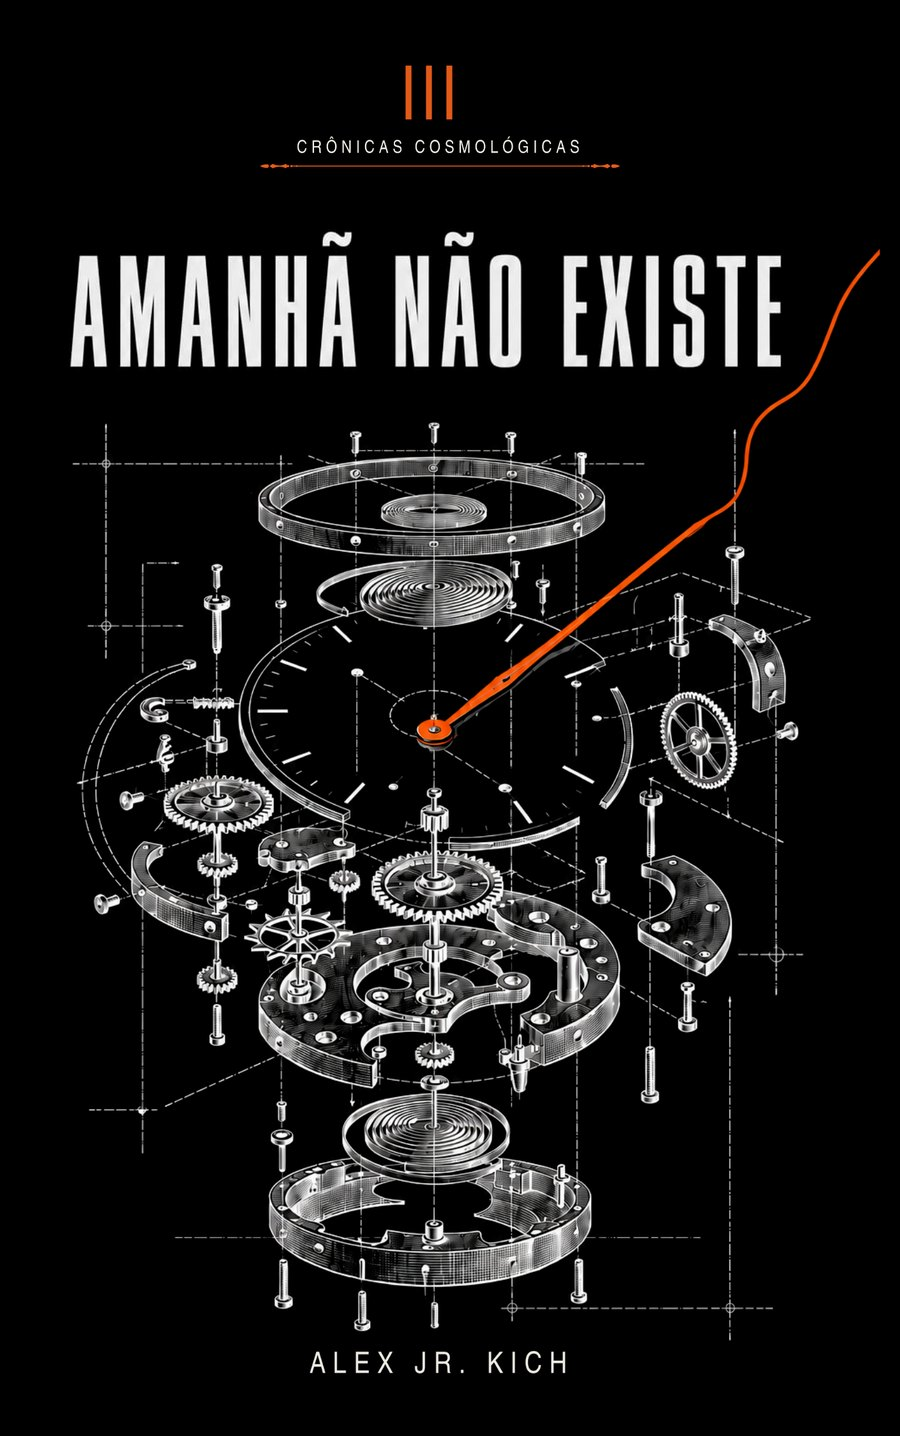
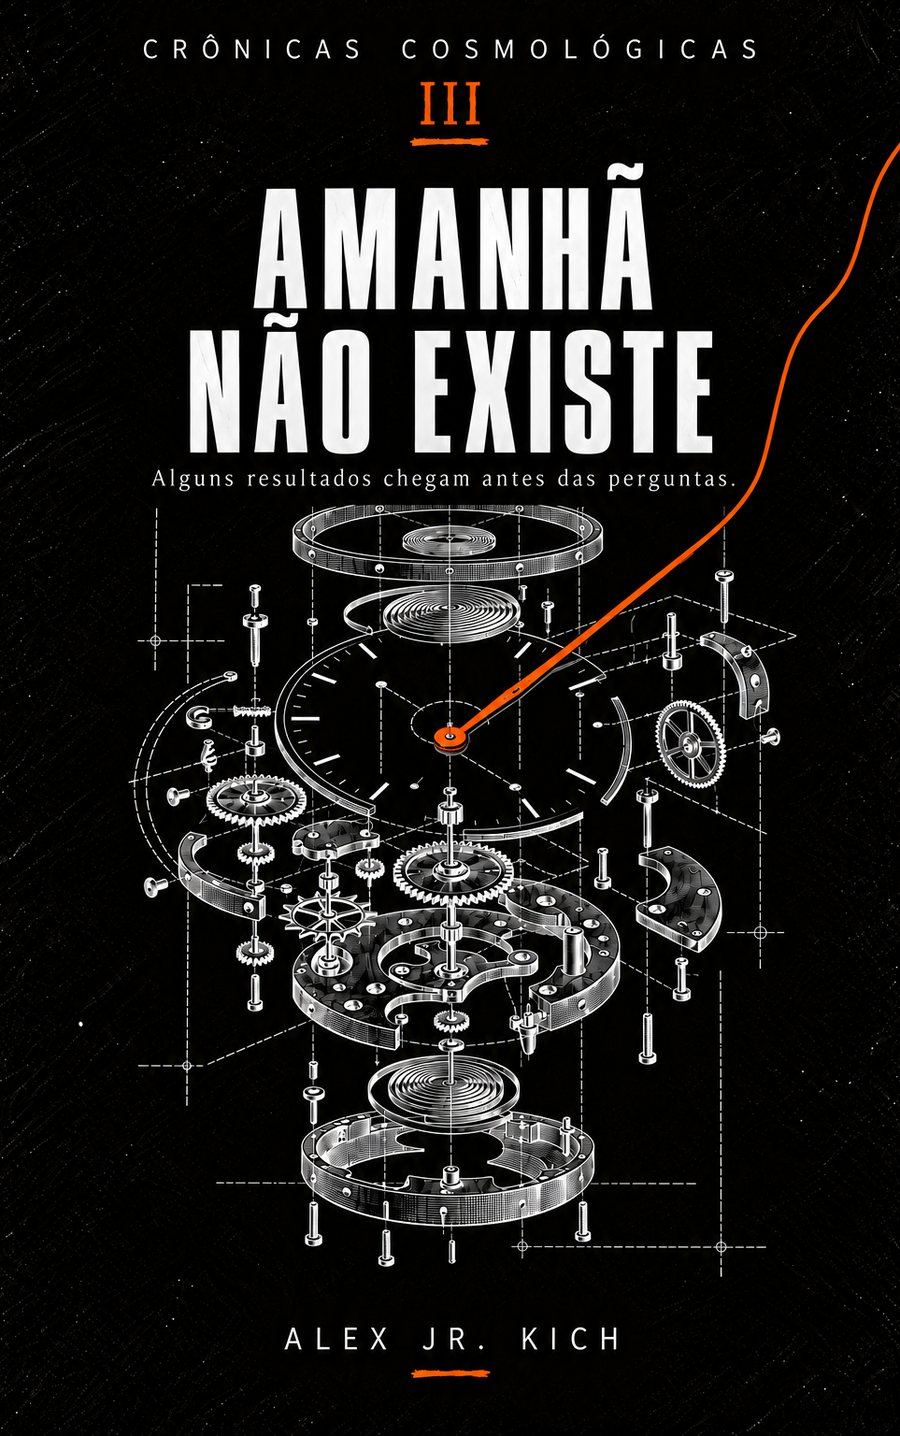
Autor: topo so texto, capas nos cartoes das Cronicas; capas novas III e IV (PT e EN)

diff --git a/en/chronicles/index.html b/en/chronicles/index.html
@@ -75,7 +75,7 @@
 
         <section class="books-future" id="chronicles">
           <span class="kicker">Cosmological Chronicles · I–X</span>
-          <div class="books-grid books-grid--covers" style="margin-top:16px"><a class="book-card book-card--cover" href="/en/chronicles/os-deuses-nao-tem-filhos/"><img src="/livros/os-deuses-nao-tem-filhos-en.jpg" alt="Cover of THE GODS HAVE NO CHILDREN" loading="lazy" /><span class="mono">I · In development</span><h3>THE GODS HAVE NO CHILDREN</h3><p>Creating a life gives no one the right to own it.</p><span class="book-card__more mono">Synopsis and details →</span></a><a class="book-card book-card--cover" href="/en/chronicles/a-ultima-testemunha/"><img src="/livros/a-ultima-testemunha-en.jpg" alt="Cover of THE LAST WITNESS" loading="lazy" /><span class="mono">II · In development</span><h3>THE LAST WITNESS</h3><p>Some things only happen when someone is watching.</p><span class="book-card__more mono">Synopsis and details →</span></a><a class="book-card book-card--cover" href="/en/chronicles/amanha-nao-existe/"><img src="/livros/amanha-nao-existe.jpg" alt="Cover of TOMORROW DOES NOT EXIST" loading="lazy" /><span class="mono">III · In development</span><h3>TOMORROW DOES NOT EXIST</h3><p>Receiving the answer before the question does not make the choice any easier.</p><span class="book-card__more mono">Synopsis and details →</span></a><a class="book-card book-card--cover" href="/en/chronicles/o-universo-nao-responde/"><img src="/livros/o-universo-nao-responde.jpg" alt="Cover of THE UNIVERSE DOES NOT ANSWER" loading="lazy" /><span class="mono">IV · In development</span><h3>THE UNIVERSE DOES NOT ANSWER</h3><p>Perhaps silence is only an answer we have not yet learned to hear.</p><span class="book-card__more mono">Synopsis and details →</span></a><a class="book-card book-card--cover" href="/en/chronicles/o-arquivo-dos-mortos/"><img src="/livros/o-arquivo-dos-mortos.jpg" alt="Cover of THE ARCHIVE OF THE DEAD" loading="lazy" /><span class="mono">V · In development</span><h3>THE ARCHIVE OF THE DEAD</h3><p>Keeping everything about someone does not bring them back.</p><span class="book-card__more mono">Synopsis and details →</span></a><a class="book-card book-card--cover" href="/en/chronicles/antes-de-nascermos/"><img src="/livros/antes-de-nascermos-en.jpg" alt="Cover of BEFORE WE ARE BORN" loading="lazy" /><span class="mono">VI · In development</span><h3>BEFORE WE ARE BORN</h3><p>Some children remember a place where they have never been.</p><span class="book-card__more mono">Synopsis and details →</span></a><a class="book-card book-card--cover" href="/en/chronicles/o-ceu-esta-errado/"><img src="/livros/o-ceu-esta-errado.jpg" alt="Cover of THE SKY IS WRONG" loading="lazy" /><span class="mono">VII · In development</span><h3>THE SKY IS WRONG</h3><p>First the stars disappear. Then the people. The worst part is when no one notices they are missing.</p><span class="book-card__more mono">Synopsis and details →</span></a><a class="book-card book-card--cover" href="/en/chronicles/o-retangulo-negro/"><img src="/livros/o-retangulo-negro.jpg" alt="Cover of THE BLACK RECTANGLE" loading="lazy" /><span class="mono">VIII · In development</span><h3>THE BLACK RECTANGLE</h3><p>Not everything that vanishes was lost.</p><span class="book-card__more mono">Synopsis and details →</span></a><a class="book-card book-card--cover" href="/en/chronicles/nao-tem-a-palavra/"><img src="/livros/nao-tem-a-palavra.jpg" alt="Cover of THERE IS NO WORD" loading="lazy" /><span class="mono">IX · In development</span><h3>THERE IS NO WORD</h3><p>Some things disappear when they stop having a name.</p><span class="book-card__more mono">Synopsis and details →</span></a><a class="book-card book-card--cover" href="/en/chronicles/o-ultimo-sinal/"><img src="/livros/o-ultimo-sinal.jpg" alt="Cover of THE LAST SIGNAL" loading="lazy" /><span class="mono">X · In development</span><h3>THE LAST SIGNAL</h3><p>If one of us arrives first, wait for the other.</p><span class="book-card__more mono">Synopsis and details →</span></a></div>
+          <div class="books-grid books-grid--covers" style="margin-top:16px"><a class="book-card book-card--cover" href="/en/chronicles/os-deuses-nao-tem-filhos/"><img src="/livros/os-deuses-nao-tem-filhos-en.jpg" alt="Cover of THE GODS HAVE NO CHILDREN" loading="lazy" /><span class="mono">I · In development</span><h3>THE GODS HAVE NO CHILDREN</h3><p>Creating a life gives no one the right to own it.</p><span class="book-card__more mono">Synopsis and details →</span></a><a class="book-card book-card--cover" href="/en/chronicles/a-ultima-testemunha/"><img src="/livros/a-ultima-testemunha-en.jpg" alt="Cover of THE LAST WITNESS" loading="lazy" /><span class="mono">II · In development</span><h3>THE LAST WITNESS</h3><p>Some things only happen when someone is watching.</p><span class="book-card__more mono">Synopsis and details →</span></a><a class="book-card book-card--cover" href="/en/chronicles/amanha-nao-existe/"><img src="/livros/amanha-nao-existe-en.jpg" alt="Cover of TOMORROW DOES NOT EXIST" loading="lazy" /><span class="mono">III · In development</span><h3>TOMORROW DOES NOT EXIST</h3><p>Receiving the answer before the question does not make the choice any easier.</p><span class="book-card__more mono">Synopsis and details →</span></a><a class="book-card book-card--cover" href="/en/chronicles/o-universo-nao-responde/"><img src="/livros/o-universo-nao-responde-en.jpg" alt="Cover of THE UNIVERSE DOES NOT ANSWER" loading="lazy" /><span class="mono">IV · In development</span><h3>THE UNIVERSE DOES NOT ANSWER</h3><p>Perhaps silence is only an answer we have not yet learned to hear.</p><span class="book-card__more mono">Synopsis and details →</span></a><a class="book-card book-card--cover" href="/en/chronicles/o-arquivo-dos-mortos/"><img src="/livros/o-arquivo-dos-mortos.jpg" alt="Cover of THE ARCHIVE OF THE DEAD" loading="lazy" /><span class="mono">V · In development</span><h3>THE ARCHIVE OF THE DEAD</h3><p>Keeping everything about someone does not bring them back.</p><span class="book-card__more mono">Synopsis and details →</span></a><a class="book-card book-card--cover" href="/en/chronicles/antes-de-nascermos/"><img src="/livros/antes-de-nascermos-en.jpg" alt="Cover of BEFORE WE ARE BORN" loading="lazy" /><span class="mono">VI · In development</span><h3>BEFORE WE ARE BORN</h3><p>Some children remember a place where they have never been.</p><span class="book-card__more mono">Synopsis and details →</span></a><a class="book-card book-card--cover" href="/en/chronicles/o-ceu-esta-errado/"><img src="/livros/o-ceu-esta-errado.jpg" alt="Cover of THE SKY IS WRONG" loading="lazy" /><span class="mono">VII · In development</span><h3>THE SKY IS WRONG</h3><p>First the stars disappear. Then the people. The worst part is when no one notices they are missing.</p><span class="book-card__more mono">Synopsis and details →</span></a><a class="book-card book-card--cover" href="/en/chronicles/o-retangulo-negro/"><img src="/livros/o-retangulo-negro.jpg" alt="Cover of THE BLACK RECTANGLE" loading="lazy" /><span class="mono">VIII · In development</span><h3>THE BLACK RECTANGLE</h3><p>Not everything that vanishes was lost.</p><span class="book-card__more mono">Synopsis and details →</span></a><a class="book-card book-card--cover" href="/en/chronicles/nao-tem-a-palavra/"><img src="/livros/nao-tem-a-palavra.jpg" alt="Cover of THERE IS NO WORD" loading="lazy" /><span class="mono">IX · In development</span><h3>THERE IS NO WORD</h3><p>Some things disappear when they stop having a name.</p><span class="book-card__more mono">Synopsis and details →</span></a><a class="book-card book-card--cover" href="/en/chronicles/o-ultimo-sinal/"><img src="/livros/o-ultimo-sinal.jpg" alt="Cover of THE LAST SIGNAL" loading="lazy" /><span class="mono">X · In development</span><h3>THE LAST SIGNAL</h3><p>If one of us arrives first, wait for the other.</p><span class="book-card__more mono">Synopsis and details →</span></a></div>
         </section>
       </div>
     </section></main>

diff --git a/autor/index.html b/autor/index.html
@@ -15,11 +15,11 @@
   <meta property="og:url" content="https://sinalruido.com.br/autor/" />
   <meta property="og:site_name" content="SINAL/RUÍDO" />
   <meta property="og:locale" content="pt_BR" />
-  <meta property="og:image" content="https://sinalruido.com.br/autor/hero-bandeira.jpg" />
+  <meta property="og:image" content="https://sinalruido.com.br/autor/sentado.jpg" />
   <meta property="og:image:width" content="1200" />
   <meta property="og:image:height" content="630" />
   <meta name="twitter:card" content="summary_large_image" />
-  <meta name="twitter:image" content="https://sinalruido.com.br/autor/hero-bandeira.jpg" />
+  <meta name="twitter:image" content="https://sinalruido.com.br/autor/sentado.jpg" />
   <link rel="preconnect" href="https://fonts.googleapis.com" />
   <link rel="preconnect" href="https://fonts.gstatic.com" crossorigin />
   <link rel="stylesheet" href="https://fonts.googleapis.com/css2?family=Oswald:wght@600;700&display=swap" />
@@ -72,7 +72,6 @@
         <p class="autor-cite">O conceito pode ser enorme, mas o conflito precisa continuar humano.</p>
         <p><a class="btn btn--primary" href="/#livros">Conhecer os livros</a></p>
       </div>
-      <div class="autor-hero__photo"><img src="/autor/hero-bandeira.jpg" alt="Alex Jr. Kich sentado, sorrindo, com a bandeira do Rio Grande do Sul ao fundo" width="900" height="900" /></div>
     </section>
 
     <section class="autor-sec autor-sobre">
@@ -160,51 +159,61 @@
         </div>
         <div class="autor-cron-grid">
         <a class="autor-cron" href="/livros/os-deuses-nao-tem-filhos/">
+          <img src="/livros/thumbs/os-deuses-nao-tem-filhos.jpg" alt="Capa de OS DEUSES NÃO TÊM FILHOS" width="360" height="575" loading="lazy" />
           <span class="autor-cron__num">I</span>
           <strong>OS DEUSES NÃO TÊM FILHOS</strong>
           <span>Se alguém criou você, isso lhe dá o direito de decidir quem você deve ser?</span>
         </a>
         <a class="autor-cron" href="/livros/a-ultima-testemunha/">
+          <img src="/livros/thumbs/a-ultima-testemunha.jpg" alt="Capa de A ÚLTIMA TESTEMUNHA" width="360" height="575" loading="lazy" />
           <span class="autor-cron__num">II</span>
           <strong>A ÚLTIMA TESTEMUNHA</strong>
           <span>Algumas coisas só acontecem se alguém estiver olhando.</span>
         </a>
         <a class="autor-cron" href="/livros/amanha-nao-existe/">
+          <img src="/livros/thumbs/amanha-nao-existe.jpg" alt="Capa de AMANHÃ NÃO EXISTE" width="360" height="575" loading="lazy" />
           <span class="autor-cron__num">III</span>
           <strong>AMANHÃ NÃO EXISTE</strong>
           <span>O que sobra do livre-arbítrio quando uma máquina entrega as respostas antes das perguntas?</span>
         </a>
         <a class="autor-cron" href="/livros/o-universo-nao-responde/">
+          <img src="/livros/thumbs/o-universo-nao-responde.jpg" alt="Capa de O UNIVERSO NÃO RESPONDE" width="360" height="575" loading="lazy" />
           <span class="autor-cron__num">IV</span>
           <strong>O UNIVERSO NÃO RESPONDE</strong>
           <span>Um sinal vindo de além de Netuno traz uma única frase: “Não respondam à luz.”</span>
         </a>
         <a class="autor-cron" href="/livros/o-arquivo-dos-mortos/">
+          <img src="/livros/thumbs/o-arquivo-dos-mortos.jpg" alt="Capa de O ARQUIVO DOS MORTOS" width="360" height="575" loading="lazy" />
           <span class="autor-cron__num">V</span>
           <strong>O ARQUIVO DOS MORTOS</strong>
           <span>Se tudo sobre uma pessoa puder ser guardado, ela continua existindo?</span>
         </a>
         <a class="autor-cron" href="/livros/antes-de-nascermos/">
+          <img src="/livros/thumbs/antes-de-nascermos.jpg" alt="Capa de ANTES DE NASCERMOS" width="360" height="575" loading="lazy" />
           <span class="autor-cron__num">VI</span>
           <strong>ANTES DE NASCERMOS</strong>
           <span>Crianças desenham o mesmo lugar e dizem que estiveram lá antes de nascer.</span>
         </a>
         <a class="autor-cron" href="/livros/o-ceu-esta-errado/">
+          <img src="/livros/thumbs/o-ceu-esta-errado.jpg" alt="Capa de O CÉU ESTÁ ERRADO" width="360" height="575" loading="lazy" />
           <span class="autor-cron__num">VII</span>
           <strong>O CÉU ESTÁ ERRADO</strong>
           <span>As estrelas começam a desaparecer. Depois, os próprios registros passam a afirmar que elas nunca estiveram ali.</span>
         </a>
         <a class="autor-cron" href="/livros/o-retangulo-negro/">
+          <img src="/livros/thumbs/o-retangulo-negro.jpg" alt="Capa de O RETÂNGULO NEGRO" width="360" height="575" loading="lazy" />
           <span class="autor-cron__num">VIII</span>
           <strong>O RETÂNGULO NEGRO</strong>
           <span>Ilse Moura continua lembrando dos filhos enquanto o resto do mundo esquece que eles existiram.</span>
         </a>
         <a class="autor-cron" href="/livros/nao-tem-a-palavra/">
+          <img src="/livros/thumbs/nao-tem-a-palavra.jpg" alt="Capa de NÃO TEM A PALAVRA" width="360" height="575" loading="lazy" />
           <span class="autor-cron__num">IX</span>
           <strong>NÃO TEM A PALAVRA</strong>
           <span>A última falante de uma língua conhece uma palavra que abre uma porta para outro lugar por 1,7 segundo.</span>
         </a>
         <a class="autor-cron" href="/livros/o-ultimo-sinal/">
+          <img src="/livros/thumbs/o-ultimo-sinal.jpg" alt="Capa de O ÚLTIMO SINAL" width="360" height="575" loading="lazy" />
           <span class="autor-cron__num">X</span>
           <strong>O ÚLTIMO SINAL</strong>
           <span>Tudo converge para uma frase que atravessou as histórias desde o começo, quase escondida.</span>

diff --git a/src/css/components.css b/src/css/components.css
@@ -941,7 +941,7 @@ body:has(dialog.book-dialog[open]) { overflow: hidden; }
 .autor-cite { font-size: clamp(20px, 2.6vw, 28px); line-height: 1.3 !important; color: var(--text) !important; font-family: Georgia, "Times New Roman", serif; font-style: italic; margin-top: 22px !important; }
 .autor-cite--accent { color: var(--signal) !important; }
 .autor-note { font-size: 14px; color: var(--muted); }
-.autor-hero { display: grid; grid-template-columns: 60% 40%; min-height: min(72svh, 640px); background: var(--bg); }
+.autor-hero { display: grid; grid-template-columns: 1fr; min-height: min(62svh, 560px); background: var(--bg); }
 .autor-hero__text { padding: clamp(32px, 6vw, 88px); align-self: center; }
 .autor-hero__text h1 { font-family: var(--display); font-size: clamp(44px, 7vw, 92px); line-height: .98; }
 .autor-hero__lead { font-size: clamp(18px, 2vw, 24px); color: var(--signal); margin-top: 12px !important; }
@@ -968,7 +968,8 @@ body:has(dialog.book-dialog[open]) { overflow: hidden; }
 @media (min-width: 1100px) { .autor-cron-grid { grid-template-columns: repeat(5, 1fr); } }
 .autor-cron { display: grid; gap: 8px; align-content: start; padding: 18px; border: 1px solid rgba(255,255,255,.14); border-radius: 12px; background: rgba(255,255,255,.03); color: inherit; }
 .autor-cron:hover { border-color: #d4a84b; }
-.autor-cron__num { font-family: var(--display); font-size: 44px; line-height: 1; color: #d4a84b; }
+.autor-cron img { width: 100%; height: auto; display: block; border-radius: 6px; }
+.autor-cron__num { font-family: var(--display); font-size: 26px; line-height: 1; color: #d4a84b; margin-top: 4px; }
 .autor-cron strong { font-size: 15px; line-height: 1.2; }
 .autor-cron > span:last-child { font-size: 13px; line-height: 1.5; color: var(--muted); }
 .autor-vol-grid { display: grid; gap: 16px; margin-top: 28px; }
@@ -1018,3 +1019,4 @@ body:has(dialog.book-dialog[open]) { overflow: hidden; }
 .autor-fotos .autor-retrato img { max-width: 220px; }
 .autor-start__kicker { color: var(--signal); }
 .autor-start h3 { font-family: var(--display); font-size: 24px; line-height: 1.1; }
+.autor-hero__text { max-width: 900px; }

diff --git a/en/chronicles/o-universo-nao-responde/index.html b/en/chronicles/o-universo-nao-responde/index.html
@@ -22,11 +22,11 @@ At first, the situation offers everything a scientific search could want: direct
   <meta property="og:url" content="https://sinalruido.com.br/en/chronicles/o-universo-nao-responde/" />
   <meta property="og:site_name" content="SINAL/RUÍDO" />
   <meta property="og:locale" content="en_US" />
-  <meta property="og:image" content="https://sinalruido.com.br/livros/o-universo-nao-responde.jpg" />
+  <meta property="og:image" content="https://sinalruido.com.br/livros/o-universo-nao-responde-en.jpg" />
   <meta property="og:image:width" content="1200" />
   <meta property="og:image:height" content="630" />
   <meta name="twitter:card" content="summary_large_image" />
-  <meta name="twitter:image" content="https://sinalruido.com.br/livros/o-universo-nao-responde.jpg" />
+  <meta name="twitter:image" content="https://sinalruido.com.br/livros/o-universo-nao-responde-en.jpg" />
   <link rel="preconnect" href="https://fonts.googleapis.com" />
   <link rel="preconnect" href="https://fonts.gstatic.com" crossorigin />
   <link rel="stylesheet" href="https://fonts.googleapis.com/css2?family=Oswald:wght@600;700&display=swap" />
@@ -66,7 +66,7 @@ At first, the situation offers everything a scientific search could want: direct
           <a href="/livros/o-universo-nao-responde/" class="mono" style="color:var(--muted)" hreflang="pt-BR">← Versão em português</a>
         </div>
         <div class="book-sheet__hero">
-          <img class="book-sheet__cover" src="/livros/o-universo-nao-responde.jpg" alt="Cover of THE UNIVERSE DOES NOT ANSWER" width="450" height="720" />
+          <img class="book-sheet__cover" src="/livros/o-universo-nao-responde-en.jpg" alt="Cover of THE UNIVERSE DOES NOT ANSWER" width="450" height="720" />
           <div>
             <span class="badge" style="border-color:var(--signal);color:var(--signal)">IV · In development</span>
             <h1 style="margin-top:12px">THE UNIVERSE DOES NOT ANSWER</h1>

diff --git a/en/chronicles/amanha-nao-existe/index.html b/en/chronicles/amanha-nao-existe/index.html
@@ -22,11 +22,11 @@ They are not predictions in the ordinary sense. The data arrives before the ques
   <meta property="og:url" content="https://sinalruido.com.br/en/chronicles/amanha-nao-existe/" />
   <meta property="og:site_name" content="SINAL/RUÍDO" />
   <meta property="og:locale" content="en_US" />
-  <meta property="og:image" content="https://sinalruido.com.br/livros/amanha-nao-existe.jpg" />
+  <meta property="og:image" content="https://sinalruido.com.br/livros/amanha-nao-existe-en.jpg" />
   <meta property="og:image:width" content="1200" />
   <meta property="og:image:height" content="630" />
   <meta name="twitter:card" content="summary_large_image" />
-  <meta name="twitter:image" content="https://sinalruido.com.br/livros/amanha-nao-existe.jpg" />
+  <meta name="twitter:image" content="https://sinalruido.com.br/livros/amanha-nao-existe-en.jpg" />
   <link rel="preconnect" href="https://fonts.googleapis.com" />
   <link rel="preconnect" href="https://fonts.gstatic.com" crossorigin />
   <link rel="stylesheet" href="https://fonts.googleapis.com/css2?family=Oswald:wght@600;700&display=swap" />
@@ -66,7 +66,7 @@ They are not predictions in the ordinary sense. The data arrives before the ques
           <a href="/livros/amanha-nao-existe/" class="mono" style="color:var(--muted)" hreflang="pt-BR">← Versão em português</a>
         </div>
         <div class="book-sheet__hero">
-          <img class="book-sheet__cover" src="/livros/amanha-nao-existe.jpg" alt="Cover of TOMORROW DOES NOT EXIST" width="450" height="720" />
+          <img class="book-sheet__cover" src="/livros/amanha-nao-existe-en.jpg" alt="Cover of TOMORROW DOES NOT EXIST" width="450" height="720" />
           <div>
             <span class="badge" style="border-color:var(--signal);color:var(--signal)">III · In development</span>
             <h1 style="margin-top:12px">TOMORROW DOES NOT EXIST</h1>

diff --git a/imprensa/index.html b/imprensa/index.html
@@ -93,7 +93,7 @@
         <p style="margin-top:8px">Uso editorial com crédito ao autor. <a href="/autor/">Página do autor</a> para o contexto completo.</p>
         <p style="margin-top:12px;display:flex;gap:10px;flex-wrap:wrap">
           <a class="btn" href="/autor/retrato-pb.jpg" download>Retrato P&amp;B</a>
-          <a class="btn" href="/autor/hero-bandeira.jpg" download>Foto com a bandeira</a>
+          <a class="btn" href="/autor/sentado.jpg" download>Foto sentado</a>
           <a class="btn" href="/livro/capa.jpg" download>Capa · SINAL/RUÍDO</a>
           <a class="btn" href="/autor/duas-irmas-capa.jpg" download>Capa · Duas Irmãs e Oito Patas</a>
         </p>

diff --git a/INTERNATIONAL-SITE-RECON.md b/INTERNATIONAL-SITE-RECON.md
@@ -724,3 +724,10 @@ Arte nova em PT (`sinal final/LIVROS/1/pt.png`, "Algumas coisas não deveriam na
 Ajuste (2026-09-25): a pedido do autor, ficam apenas fotos em que ele aparece sozinho. Removidas as fotos com a filha (Dragon/SpaceX, filha nos ombros) e o fecho com a família. Entrou a foto dele sentado (`public/autor/sentado.jpg`) em "Como eu escrevo". Ilustrações e fichas de personagem (arte) foram mantidas.
 
 Ajuste (2026-09-25): hero da página do autor reduzido (foto com a bandeira em 40% da largura, altura máx. 640 px; no celular 44% da altura da tela) e retrato P&B de óculos removido da página do autor. O arquivo e o download do retrato continuam em `/imprensa/` (`public/autor/retrato-pb.jpg`), aguardando decisão do autor.
+
+## AA. Página do autor sem foto no topo, capas nos cartões e capas III e IV (2026-09-25)
+
+- **Topo do `/autor/`:** só texto; a foto com a bandeira foi removida da página, da imprensa e do projeto (`hero-bandeira.jpg` apagado). Única foto do autor restante: a sentado, em "Como eu escrevo" (também no download da imprensa). Imagem de compartilhamento da página: `sentado.jpg`.
+- **Cartões das Crônicas** no `/autor/`: passam a mostrar a capa de cada livro (miniaturas de 360 px em `public/livros/thumbs/`, ~400 KB no total), com numeral dourado menor, título e frase.
+- **Capas novas III e IV** (`sinal final/LIVROS/3/pt.png`, `3/ing.png` e `4/ChatGPT ... (2)` = PT, `(1)` = EN): PT "Amanhã Não Existe" e "O Universo Não Responde"; EN "Tomorrow Does Not Exist" e "The Universe Does Not Respond". Livros com capa em inglês: I, II, III, IV e VI.
+- **Pendente de confirmação:** as pastas 5 e 6 têm imagens novas (V EN/PT às 15:08; VI EN/PT às 15:12, com arte diferente da já aplicada). As pastas 7 a 10 têm rascunhos das 14:12 e 14:19. Como o autor disse "até a IV", V, VI e os demais não foram aplicados.
